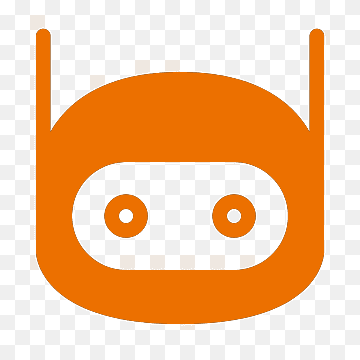
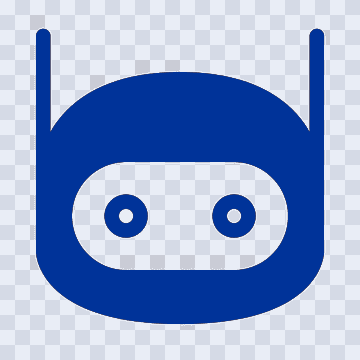
ajusta estilos (padding y cosas

diff --git a/src/FormViewRequest.jsx b/src/FormViewRequest.jsx
@@ -9,59 +9,61 @@ import Instructive from "./components/Instructive";
 function FormRequest() {
     return (
         <>
-        <Header isHomeView={true}/>
-        <div className={FormCSS.backView}>
-            <div className={FormCSS.leftColumn}>
-                <h3 className={FormCSS.tittle}>Completa el siguiente formulario para mandar tu solicitud</h3>
-                <FormBotRequest />
+            <Header isHomeView={true} />
+            <div className={FormCSS.backView}>
+                <div className={FormCSS.leftColumn}>
+                    <h3 className={FormCSS.tittle}>Completa el siguiente formulario para mandar tu solicitud</h3>
+                    <FormBotRequest />
+                </div>
+                <div className={FormCSS.rightColumn}>
+                    <Instructive />
+                </div>
             </div>
-            <div className={FormCSS.rightColumn}>
-                <Instructive />
-        </div>
-    </div>
-        <section>
-            <BubbleChat
-                chatflowid="f3e89a7f-e41d-43d4-9d76-0a0cdd4daa33"
-                apiHost="https://itau-2-tf.onrender.com"
-                theme={{
-                    button: {
-                        backgroundColor: "#EC7000",
-                        right: 20,
-                        bottom: 20,
-                        size: "medium",
-                        iconColor: "#ffffff",
-                        customIconSrc: "src/assets/boticon.png",
+            <section>
+                <BubbleChat
+                    chatflowid="f3e89a7f-e41d-43d4-9d76-0a0cdd4daa33"
+                    apiHost="https://itau-2-tf.onrender.com"
+                    theme={{
+                        button: {
+                            backgroundColor: "#003399",
+                            fontFamily: "Itau Display",
+                            right: 20,
+                            bottom: 20,
+                            size: "large",
+                            iconColor: "#ffffff",
+                            customIconSrc: "../src/assets/boticon.png",
                         },
-                    chatWindow: {
-                        welcomeMessage: "¡Hola! Estoy para asistirte a completar tu solicitud. ¿Me podrías indicar cuál es tu gerencia?",
-                        backgroundColor: "#ffffff",
-                        height: 700,
-                        width: 500,
-                        fontSize: 24,
-                        poweredByTextColor: "#252220",
-                    botMessage: {
-                        backgroundColor: "#ECECEC",
-                        textColor: "#303235",
-                        showAvatar: true,
-                        avatarSrc: "https://w7.pngwing.com/pngs/529/418/png-transparent-computer-icons-internet-bot-eyes-miscellaneous-people-sticker-thumbnail.png",
-                    },
-                    userMessage: {
-                        backgroundColor: "#FEF3E1",
-                        textColor: "#252220",
-                        showAvatar: true,
-                        avatarSrc: "src/assets/profile.logo.png",
-                    },
-                    textInput: {
-                        placeholder: "Type your question",
-                        backgroundColor: "#ffffff",
-                        textColor: "#303235",
-                        sendButtonColor: "#3B81F6",
-                    }
-                }
-                    }} />
+                        chatWindow: {
+                            welcomeMessage: "¡Hola! Estoy para asistirte a completar tu solicitud. ¿Me podrías indicar cuál es tu gerencia?",
+                            backgroundColor: "#ffffff",
+                            height: 500,
+                            width: 400,
+                            fontSize: 24,
+                            poweredByTextColor: "#252220",
+                            botMessage: {
+                                backgroundColor: "#ECECEC",
+                                textColor: "#303235",
+                                showAvatar: true,
+                                avatarSrc: "https://w7.pngwing.com/pngs/529/418/png-transparent-computer-icons-internet-bot-eyes-miscellaneous-people-sticker-thumbnail.png",
+                            },
+                            userMessage: {
+                                backgroundColor: "#FEF3E1",
+                                textColor: "#252220",
+                                showAvatar: true,
+                                avatarSrc: "../src/assets/profile.logo.png",
+                            },
+                            textInput: {
+                                placeholder: "Escribe tu pregunta",
+                                backgroundColor: "#ffffff",
+                                textColor: "#303235",
+                                sendButtonColor: "#3B81F6",
+                            }
+                        }
+                    }}
+                />
             </section>
             <Footer />
-            </>
+        </>
     );
 }
 

diff --git a/src/FormViewIncidence.jsx b/src/FormViewIncidence.jsx
@@ -19,20 +19,20 @@ function FormIncidence() {
         </div>
     </div>
         <section>
-            <BubbleChat
+        <BubbleChat
                 chatflowid="f3e89a7f-e41d-43d4-9d76-0a0cdd4daa33"
                 apiHost="https://itau-2-tf.onrender.com"
                 theme={{
                     button: {
-                        backgroundColor: "#EC7000",
+                        backgroundColor: "#003399",
                         right: 20,
                         bottom: 20,
                         size: "medium",
                         iconColor: "#ffffff",
-                        customIconSrc: "src/assets/boticon.png",
+                        customIconSrc: "../src/assets/boticon.png",
                         },
                     chatWindow: {
-                        welcomeMessage: "¡Hola! Estoy para asistirte a completar tu solicitud. ¿Me podrías indicar cuál es tu gerencia?",
+                        welcomeMessage: "¡Hola! Estoy para asistirte a completar tu indidencia. ¿Me podrías indicar cuál es tu gerencia?",
                         backgroundColor: "#ffffff",
                         height: 700,
                         width: 500,
@@ -48,10 +48,10 @@ function FormIncidence() {
                         backgroundColor: "#FEF3E1",
                         textColor: "#252220",
                         showAvatar: true,
-                        avatarSrc: "src/assets/profile.logo.png",
+                        avatarSrc: "../src/assets/profile.logo.png",
                     },
                     textInput: {
-                        placeholder: "Type your question",
+                        placeholder: "Escribe tu pregunta",
                         backgroundColor: "#ffffff",
                         textColor: "#303235",
                         sendButtonColor: "#3B81F6",

diff --git a/src/components/form.module.css b/src/components/form.module.css
@@ -1,6 +1,6 @@
 .backView {
     width: 100%;
-    padding: 110px 10px 100px 10px;
+    padding: 10px 10px 10px 10px;
     display: grid;
     grid-template-columns: 1fr 1fr;
     /* Divide en dos columnas de igual ancho */
@@ -22,7 +22,7 @@
     display: flex;
     flex-direction: column;
     align-items: center;
-    gap: 24px;
+    gap: 5px;
 }
 
 .label {
@@ -79,5 +79,5 @@
     font-style: normal;
     font-weight: 700;
     line-height: normal;
-    padding: 30px 30px 30px 20px;
+    padding: 10px 10px 10px 10px;
 }

diff --git a/src/components/Instructive.module.css b/src/components/Instructive.module.css
@@ -1,9 +1,8 @@
 .instructiveContainer {
-  max-width: 40%;
+  max-width: 80%;
   margin: 15px auto;
   background-color: #f2f2f2;
-  padding: 2%;
-  border: 1px solid #ccc;
+  padding: 5%;  border: 1px solid #ccc;
   border-radius: 10px;
   display: flex;
   flex-direction: column; 

diff --git a/src/components/Verification.jsx b/src/components/Verification.jsx
@@ -29,7 +29,7 @@ function Verification() {
     } else {
       setCodeError("");
 
-      if (num !== '123456') {
+      if (num !== '130392') {
         setIsErrorlogVisible(true);
       } else {
         navigate('/Home');

diff --git a/src/Categories.module.css b/src/Categories.module.css
@@ -61,7 +61,7 @@ button {
   }
   .home {
     display: flex;
-    justify-content: center;
+    /* justify-content: center; */
     align-items: center;
     flex-direction: column;
     height: 100vh; 

diff --git a/src/resume.module.css b/src/resume.module.css
@@ -1,5 +1,5 @@
 .containerResume {
-    margin-top: 6.25rem;
+    margin-top: 2.25rem;
     display: flex;
     flex-direction: column;
     justify-content: center;

diff --git a/src/index.css b/src/index.css
@@ -30,7 +30,7 @@ body{
   align-items: center;
   justify-content: space-between;
   overflow: auto;
-  margin-top: 80px;
+  margin-top: 10px;
   
 
 }
